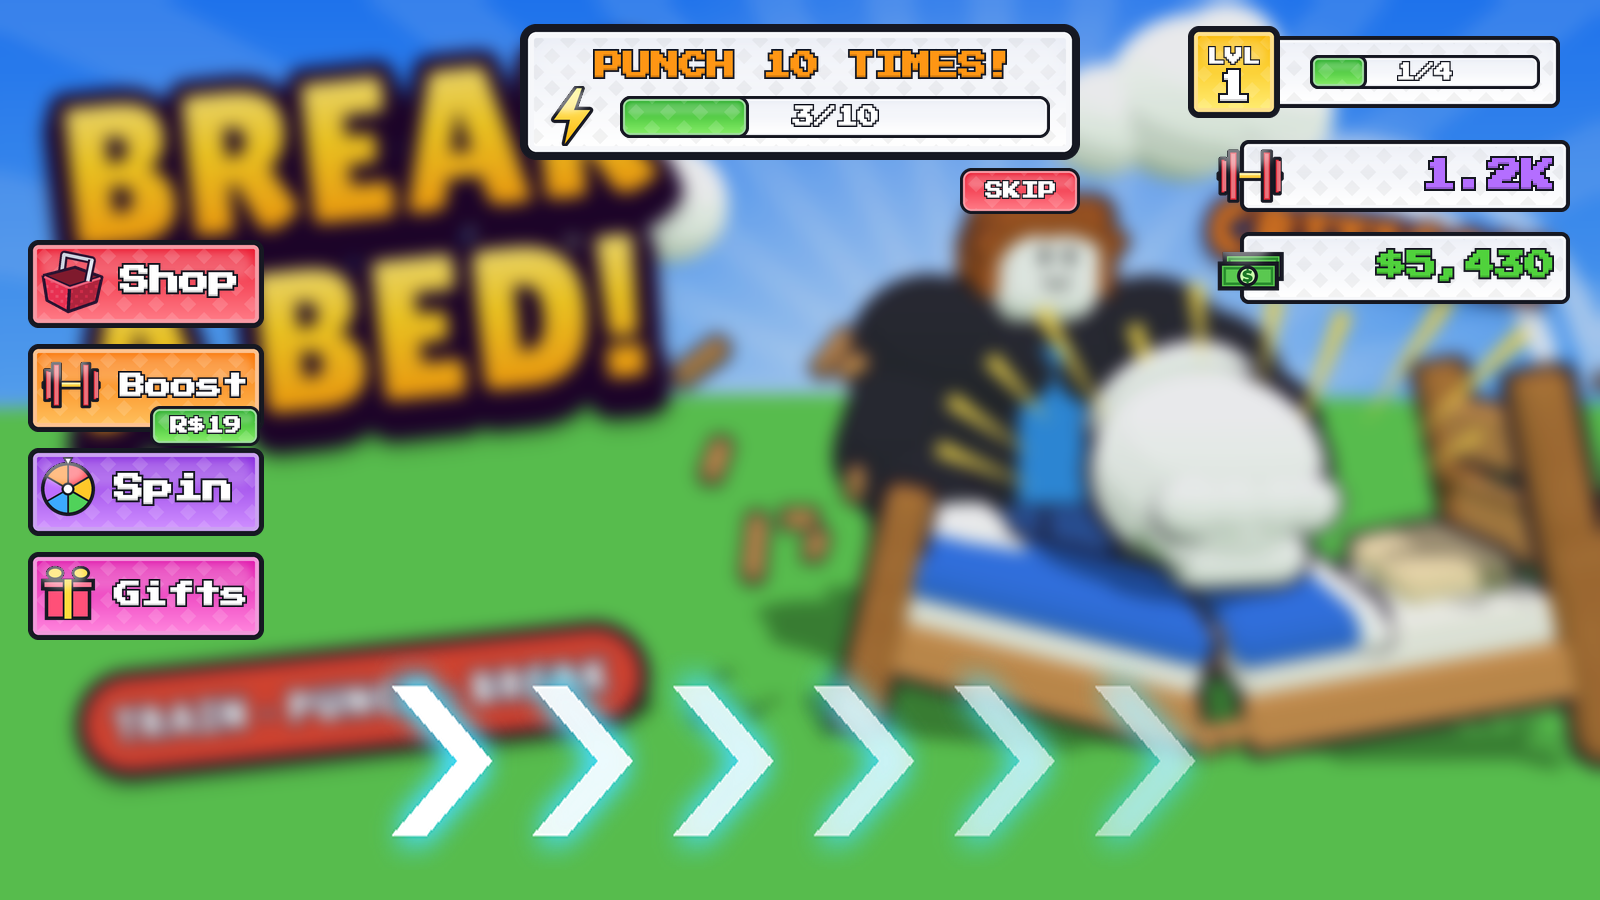
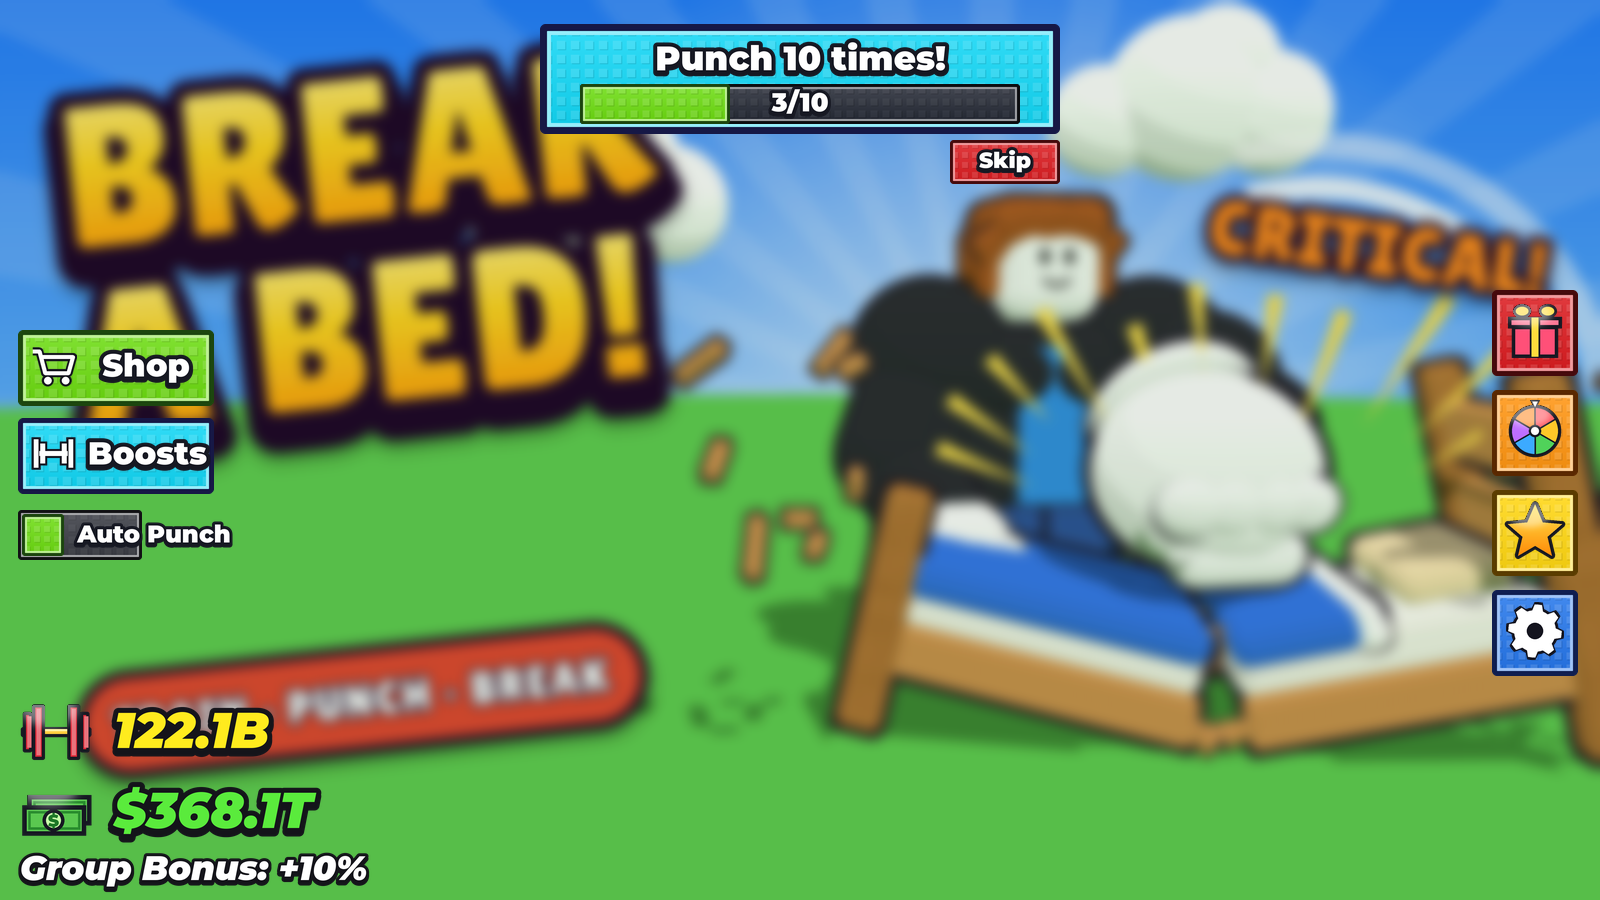
Break A Bed: final UI style (simulator look) and effects plan
Claude-Session: https://claude.ai/code/session_016uvrS3Ui1ijFbyufuEdzSK

diff --git a/Break A Bed/UI Kit/source/sim.py b/Break A Bed/UI Kit/source/sim.py
@@ -1,0 +1,264 @@
+"""Break A Bed UI in the owner's favourite 'simulator' style (Shop/Index buttons, dark studded shop)."""
+import os
+import sys, math, colorsys
+from PIL import Image, ImageDraw, ImageFont, ImageFilter, ImageChops
+import kit
+from kit import S, mix, mask_rr, vgrad, studs, label, FONT
+from preview import icon, price_btn
+from products import dumbbell
+
+COL = {'green': (110, 220, 20), 'cyan': (20, 215, 245), 'red': (220, 30, 35), 'purple': (190, 40, 235),
+       'yellow': (255, 215, 20), 'orange': (255, 150, 20), 'pink': (240, 60, 190), 'blue': (40, 120, 235)}
+EDGE = {'green': (28, 70, 14), 'cyan': (22, 24, 70), 'red': (70, 10, 12), 'purple': (55, 12, 75),
+        'yellow': (90, 60, 0), 'orange': (90, 40, 0), 'pink': (75, 10, 55), 'blue': (15, 30, 80)}
+
+def sbox(w, h, col, radius=0.07, cell=14, stud=(30, 26)):
+    base = COL[col] if isinstance(col, str) else col
+    edge = EDGE[col] if isinstance(col, str) else mix(base, (0, 0, 0), 0.7)
+    W, H = w * S, h * S
+    m = min(w, h)
+    rad = max(3, m * radius) * S
+    ow = min(7, max(3, round(m * 0.06))) * S
+    rim = min(4, max(2, round(m * 0.035))) * S
+    img = Image.new('RGBA', (W, H), (0, 0, 0, 0))
+    img.paste(edge + (255,), (0, 0, W, H), mask_rr((W, H), (0, 0, W - 1, H - 1), rad))
+    b1 = (ow, ow, W - 1 - ow, H - 1 - ow)
+    img.paste(mix(base, (255, 255, 255), 0.55) + (255,), (0, 0, W, H), mask_rr((W, H), b1, max(1, rad - ow)))
+    face = (b1[0] + rim, b1[1] + rim, b1[2] - rim, b1[3] - rim)
+    fm = mask_rr((W, H), face, max(1, rad - ow - rim))
+    img.paste(vgrad((W, H), mix(base, (255, 255, 255), 0.12), mix(base, (0, 0, 0), 0.06), face[1], face[3]), (0, 0), fm)
+    p = studs((W, H), cell * S, *stud); p.putalpha(ImageChops.multiply(p.getchannel('A'), fm)); img.alpha_composite(p)
+    return img.resize((w, h), Image.LANCZOS)
+
+def wtext(img, xy, s, size, fill=(255, 255, 255), anchor='lm', hl=None):
+    """hl: a word drawn in green (like the reference's highlighted 'x2')."""
+    if not hl or hl not in s:
+        label(img, xy, s, size, fill=fill, anchor=anchor); return
+    f = ImageFont.truetype(FONT, size)
+    parts = [p for p in s.replace(hl, '|' + hl + '|').split('|') if p]
+    total = sum(f.getlength(p) for p in parts) + 6 * (len(parts) - 1)
+    x = xy[0] - (total / 2 if anchor == 'mm' else 0)
+    for p in parts:
+        label(img, (x, xy[1]), p, size, fill=(90, 230, 40) if p == hl else fill, anchor='lm')
+        x += f.getlength(p) + 6
+
+# white glyph icons with a dark outline
+def glyph(kind, n, ol=(20, 20, 30)):
+    W = n * S; im = Image.new('RGBA', (W, W), (0, 0, 0, 0)); d = ImageDraw.Draw(im)
+    lw = int(W * 0.09)
+    def draw(col, extra):
+        w2 = lw + extra
+        if kind == 'cart':
+            d.line([(W*0.06, W*0.2), (W*0.2, W*0.2), (W*0.32, W*0.66), (W*0.82, W*0.66), (W*0.92, W*0.32), (W*0.26, W*0.32)], fill=col, width=w2, joint='curve')
+            for x in (0.38, 0.76):
+                r = W*0.08 + extra/2; d.ellipse((W*x-r, W*0.82-r, W*x+r, W*0.82+r), fill=col)
+        elif kind == 'gift':
+            e = extra/2
+            d.rectangle((W*0.16-e, W*0.46-e, W*0.84+e, W*0.9+e), fill=col)
+            d.rectangle((W*0.1-e, W*0.3-e, W*0.9+e, W*0.44+e), fill=col)
+            d.polygon([(W*0.5, W*0.3+e), (W*0.2-e, W*0.08-e), (W*0.22-e, W*0.3+e)], fill=col)
+            d.polygon([(W*0.5, W*0.3+e), (W*0.8+e, W*0.08-e), (W*0.78+e, W*0.3+e)], fill=col)
+        elif kind == 'dumbbell':
+            d.rectangle((W*0.2, W*0.45-extra/2, W*0.8, W*0.55+extra/2), fill=col)
+            for x0, hh in ((0.08, 0.6), (0.22, 0.42), (0.68, 0.42), (0.82, 0.6)):
+                d.rectangle((W*x0-extra/2, W*(0.5-hh/2)-extra/2, W*(x0+0.1)+extra/2, W*(0.5+hh/2)+extra/2), fill=col)
+        elif kind == 'wheel':
+            r = W*0.4 + extra/2; d.ellipse((W/2-r, W/2-r, W/2+r, W/2+r), outline=col, width=w2)
+            for i in range(4):
+                a = math.radians(i*45); d.line((W/2-W*0.38*math.cos(a), W/2-W*0.38*math.sin(a), W/2+W*0.38*math.cos(a), W/2+W*0.38*math.sin(a)), fill=col, width=int(w2*0.8))
+        elif kind == 'gear':
+            pts = []
+            for i in range(48):
+                a = i/48*2*math.pi; r = (0.46 if (i//3) % 2 == 0 else 0.36)*W + extra/2
+                pts.append((W/2 + r*math.cos(a), W/2 + r*math.sin(a)))
+            d.polygon(pts, fill=col)
+    draw(ol, int(lw * 1.1))
+    draw((255, 255, 255), 0)
+    if kind == 'gear':
+        r = W*0.14; d.ellipse((W/2-r, W/2-r, W/2+r, W/2+r), fill=ol)
+    if kind == 'gift':
+        d.rectangle((W*0.46, W*0.3, W*0.54, W*0.9), fill=ol)
+        d.line((W*0.16, W*0.45, W*0.84, W*0.45), fill=ol, width=int(W*0.03))
+    return im.resize((n, n), Image.LANCZOS)
+
+def hud_btn(col, kind, text, w=200, h=74):
+    b = sbox(w, h, col)
+    b.alpha_composite(glyph(kind, int(h * 0.62)), (int(h * 0.16), int(h * 0.17)))
+    fs = 32
+    while ImageFont.truetype(FONT, fs).getlength(text) > w - h * 0.9: fs -= 1
+    wtext(b, (h * 0.86 + (w - h * 0.86) / 2 - ImageFont.truetype(FONT, fs).getlength(text) / 2 - 6, h / 2 - 3), text, fs)
+    return b
+
+def toggle(on, w=124, h=50):
+    im = Image.new('RGBA', (w, h), (0, 0, 0, 0))
+    im.alpha_composite(sbox(w, h, (50, 80, 40) if on else (60, 62, 70), cell=12, stud=(10, 20)), (0, 0))
+    k = sbox(h - 8, h - 8, 'green', cell=10)
+    im.alpha_composite(k, (4 if not on else w - h + 4, 4))
+    return im
+
+def header(w, h, col='green', title='Shop'):
+    b = sbox(w, h, col, radius=0.05)
+    st = Image.new('RGBA', (w, h), (0, 0, 0, 0)); d = ImageDraw.Draw(st)
+    for x0, ww in ((w*0.45, h*0.45), (w*0.45 + h*0.62, h*0.22), (w*0.62, h*0.32)):
+        d.polygon([(x0, h), (x0 + ww, h), (x0 + ww + h*0.9, 0), (x0 + h*0.9, 0)], fill=(255, 255, 255, 60))
+    m = mask_rr((w, h), (5, 5, w - 6, h - 6), 6)
+    st.putalpha(ImageChops.multiply(st.getchannel('A'), m)); b.alpha_composite(st)
+    wtext(b, (26, h / 2 - 2), title, int(h * 0.5))
+    return b
+
+def dark_window(w, h):
+    W, H = w * S, h * S
+    img = Image.new('RGBA', (W, H), (0, 0, 0, 0))
+    img.paste((26, 27, 32, 255), (0, 0, W, H), mask_rr((W, H), (0, 0, W - 1, H - 1), 10 * S))
+    body = (6 * S, 6 * S, W - 6 * S - 1, H - 6 * S - 1)
+    fm = mask_rr((W, H), body, 7 * S)
+    img.paste((62, 64, 72, 255), (0, 0), fm)
+    p = studs((W, H), 22 * S, 14, 60); p.putalpha(ImageChops.multiply(p.getchannel('A'), fm)); img.alpha_composite(p)
+    return img.resize((w, h), Image.LANCZOS)
+
+def rainbow_card(w, h):
+    strip = Image.new('RGB', (w, 1))
+    for x in range(w):
+        r, g, b = colorsys.hsv_to_rgb((0.12 - x / w * 1.0) % 1, 0.55, 1); strip.putpixel((x, 0), (int(r*255), int(g*255), int(b*255)))
+    return strip.resize((w, h))
+
+def card(w, h, bg, ic, title, l1, hl, l2, price):
+    W, H = w, h
+    c = sbox(w, h, (200, 200, 210), radius=0.03, cell=16, stud=(30, 20))
+    face = Image.new('RGBA', (w, h), (0, 0, 0, 0))
+    fill = rainbow_card(w, h) if bg == 'rainbow' else vgrad((w, h), (255, 245, 120), (255, 205, 30), 0, h)
+    m = mask_rr((w, h), (6, 6, w - 7, h - 7), 3)
+    face.paste(fill, (0, 0), m)
+    p = studs((w, h), 16, 40, 22); p.putalpha(ImageChops.multiply(p.getchannel('A'), m)); face.alpha_composite(p)
+    c.alpha_composite(face)
+    c.alpha_composite(ic, (18, 20))
+    wtext(c, (w * 0.62, 36), title, 30, anchor='mm')
+    wtext(c, (w * 0.66, 92), l1, 30, anchor='mm')
+    wtext(c, (w * 0.66, 128), l2, 30, anchor='mm', hl='x2')
+    gb = sbox(76, 58, 'purple', cell=10); gb.alpha_composite(glyph('gift', 38), (19, 8)); c.alpha_composite(gb, (22, h - 74))
+    pb = sbox(w - 130, 58, 'green', cell=10)
+    from preview import icon as ic2
+    pb.alpha_composite(ic2('robux', 34), (int(pb.width/2 - 60), 10))
+    wtext(pb, (pb.width / 2 - 18, 26), price, 32)
+    c.alpha_composite(pb, (108, h - 74))
+    return c
+
+def main(bgpath, out):
+    Wd, Hd = 1600, 900
+    bg = Image.open(bgpath).convert('RGBA').resize((Wd, Hd)).filter(ImageFilter.GaussianBlur(10))
+    img = Image.blend(bg, Image.new('RGBA', (Wd, Hd), (40, 80, 30, 255)), 0.15)
+    # HUD left
+    for i, (col, k, t) in enumerate([('green', 'cart', 'Shop'), ('orange', 'dumbbell', 'Boost'), ('purple', 'wheel', 'Spin'), ('pink', 'gift', 'Gifts'), ('cyan', 'gear', 'Settings')]):
+        img.alpha_composite(hud_btn(col, k, t), (24, 230 + i * 88))
+    # shop window
+    x0, y0, ww, wh = 300, 70, 1020, 760
+    img.alpha_composite(dark_window(ww, wh), (x0, y0))
+    img.alpha_composite(header(ww - 98, 96), (x0 + 6, y0 + 6))
+    xb = kit.x_mark(sbox(86, 86, 'red', radius=0.06))
+    img.alpha_composite(xb, (x0 + ww - 94, y0 + 11))
+    wtext(img, (x0 + ww / 2, y0 + 150), '-- PASSES --', 40, fill=(255, 226, 40), anchor='mm')
+    cw = (ww - 3 * 24) // 2
+    img.alpha_composite(card(cw, 250, 'rainbow', dumbbell(150), 'x2 Strength', 'Punch', '', 'x2 harder!', '19'), (x0 + 24, y0 + 190))
+    img.alpha_composite(card(cw, 250, 'yellow', icon('cash', 150), 'x2 Cash', 'Get', '', 'x2 Cash!', '99'), (x0 + 48 + cw, y0 + 190))
+    wtext(img, (x0 + ww / 2, y0 + 495), '-- BOOSTS --', 40, fill=(40, 220, 255), anchor='mm')
+    sp = sbox(ww - 48, 120, 'cyan', radius=0.03, cell=16)
+    wtext(sp, (sp.width / 2 - 10, 58), 'x3 STRENGTH for 10 min', 44, anchor='mm', hl='x3')
+    img.alpha_composite(sp, (x0 + 24, y0 + 540))
+    # side category icons
+    for i, (k, t) in enumerate([('star', 'Passes'), ('bolt', 'Boosts'), ('cash', 'Cash'), ('gift', 'Free')]):
+        icn = icon(k, 96); img.alpha_composite(icn, (x0 + ww + 30, y0 + 120 + i * 140))
+        wtext(img, (x0 + ww + 78, y0 + 222 + i * 140), t, 26, anchor='mm')
+    img.convert('RGB').save(out, quality=92)
+
+if __name__ == '__main__':
+    main(sys.argv[1], sys.argv[2])
+
+ITAL = os.path.join(os.path.dirname(__file__), '..', 'fonts', 'Montserrat-BlackItalic.ttf') if False else None
+
+def itext(img, xy, s, size, fill):
+    import os as _os
+    f = ImageFont.truetype(_os.path.join(_os.path.dirname(__file__), '..', 'fonts', 'Montserrat-BlackItalic.ttf'), size * S)
+    sw = max(2, round(size * 0.1)) * S
+    tmp = Image.new('RGBA', (int(f.getlength(s)) + 8 * sw, int(size * 1.6 * S)), (0, 0, 0, 0)); d = ImageDraw.Draw(tmp)
+    d.text((2 * sw, tmp.height / 2 + size * 0.07 * S), s, font=f, anchor='lm', fill=(20, 20, 26), stroke_width=sw, stroke_fill=(20, 20, 26))
+    d.text((2 * sw, tmp.height / 2), s, font=f, anchor='lm', fill=fill, stroke_width=sw, stroke_fill=(20, 20, 26))
+    t = tmp.resize((tmp.width // S, tmp.height // S), Image.LANCZOS)
+    img.alpha_composite(t, (int(xy[0]), int(xy[1] - t.height / 2)))
+
+def square_btn(col, ic, n=86):
+    b = sbox(n, n, col, radius=0.06, cell=12)
+    b.alpha_composite(ic, ((n - ic.width) // 2, (n - ic.height) // 2 - 2))
+    return b
+
+def hud_main(bgpath, out):
+    from hud import gloss
+    Wd, Hd = 1600, 900
+    bg = Image.open(bgpath).convert('RGBA').resize((Wd, Hd)).filter(ImageFilter.GaussianBlur(6))
+    img = Image.blend(bg, Image.new('RGBA', (Wd, Hd), (40, 80, 30, 255)), 0.12)
+    # left wide buttons
+    img.alpha_composite(hud_btn('green', 'cart', 'Shop', w=196, h=76), (18, 330))
+    img.alpha_composite(hud_btn('cyan', 'dumbbell', 'Boosts', w=196, h=76), (18, 418))
+    tg = toggle(False); img.alpha_composite(tg, (18, 510)); label(img, (154, 534), 'Auto Punch', 24)
+    # right square buttons
+    for i, (col, ic) in enumerate([('red', gloss(icon('gift', 64))), ('orange', gloss(icon('wheel', 62))), ('yellow', gloss(icon('star', 62))), ('blue', glyph('gear', 58))]):
+        img.alpha_composite(square_btn(col, ic), (Wd - 108, 290 + i * 100))
+    # floating stats bottom-left
+    img.alpha_composite(gloss(dumbbell(84)), (14, 690))
+    itext(img, (104, 730), '122.1B', 50, (255, 235, 30))
+    img.alpha_composite(gloss(icon('cash', 84)), (14, 770))
+    itext(img, (104, 810), '$368.1T', 50, (90, 235, 60))
+    itext(img, (14, 868), 'Group Bonus: +10%', 34, (255, 255, 255))
+    # tutorial card top center (cyan, like the Index bar)
+    tc = sbox(520, 110, 'cyan', radius=0.05)
+    label(tc, (260, 34), 'Punch 10 times!', 34, anchor='mm')
+    track = sbox(440, 40, (40, 44, 56), cell=12, stud=(10, 30))
+    fill = sbox(150, 40, 'green', cell=12)
+    track.alpha_composite(fill, (0, 0))
+    label(track, (220, 18), '3/10', 26, anchor='mm')
+    tc.alpha_composite(track, (40, 60))
+    img.alpha_composite(tc, (Wd // 2 - 260, 24))
+    sk = sbox(110, 44, 'red', radius=0.08, cell=10); label(sk, (55, 20), 'Skip', 22, anchor='mm')
+    img.alpha_composite(sk, (Wd // 2 + 260 - 110, 140))
+    img.convert('RGB').save(out, quality=92)
+
+def shop2(bgpath, out):
+    from hud import gloss
+    Wd, Hd = 1600, 900
+    bg = Image.open(bgpath).convert('RGBA').resize((Wd, Hd)).filter(ImageFilter.GaussianBlur(10))
+    img = Image.blend(bg, Image.new('RGBA', (Wd, Hd), (40, 80, 30, 255)), 0.15)
+    x0, y0, ww, wh = 230, 60, 1060, 790
+    img.alpha_composite(dark_window(ww, wh), (x0, y0))
+    img.alpha_composite(header(ww - 98, 96), (x0 + 6, y0 + 6))
+    img.alpha_composite(kit.x_mark(sbox(86, 86, 'red', radius=0.06)), (x0 + ww - 94, y0 + 11))
+    wtext(img, (x0 + ww / 2, y0 + 140), '-- STRENGTH --', 40, fill=(40, 220, 255), anchor='mm')
+    up = sbox(ww - 48, 210, 'cyan', radius=0.03, cell=16)
+    rays_ = kit.rays(700, 14, 90); up.alpha_composite(rays_.crop((0, 245, 700, 455)).resize((up.width, 210)))
+    wtext(up, (up.width / 2, 40), 'DOUBLE Your STRENGTH', 40, anchor='mm', hl='DOUBLE')
+    up.alpha_composite(gloss(dumbbell(150)), (30, 45))
+    itext(up, (290, 128), 'x5', 92, (255, 255, 255))
+    up.alpha_composite(sbox(40, 40, (255, 255, 255), cell=40, stud=(0, 0)).resize((1, 1)), (0, 0))
+    ImageDraw.Draw(up).polygon([(475, 100), (475, 156), (520, 128)], fill=(255, 255, 255), outline=(20, 20, 26), width=5)
+    itext(up, (540, 128), 'x7', 92, (255, 215, 30))
+    pb = sbox(210, 80, 'green', cell=12); pb.alpha_composite(icon('robux', 44), (30, 16)); label(pb, (96, 37), '149', 40)
+    up.alpha_composite(pb, (up.width - 230, 90))
+    img.alpha_composite(up, (x0 + 24, y0 + 180))
+    wtext(img, (x0 + ww / 2, y0 + 430), '-- CASH --', 40, fill=(90, 230, 60), anchor='mm')
+    cw = (ww - 4 * 24) // 3
+    for i, (amt, price, n) in enumerate((('+$15K', '9', 1), ('+$60K', '15', 2), ('+$250K', '30', 3))):
+        c = sbox(cw, 290, 'green', radius=0.03, cell=16)
+        c.alpha_composite(kit.soft_glow(260, 170), (cw // 2 - 130, 0))
+        for k in range(n):
+            c.alpha_composite(gloss(icon('cash', 150)), (int(cw // 2 - 75 + (k - (n - 1) / 2) * 34), 30 - k * 14))
+        wtext(c, (cw / 2, 190), amt + ' CASH', 34, anchor='mm', hl=amt)
+        gb = sbox(70, 62, 'purple', cell=10); gb.alpha_composite(glyph('gift', 40), (15, 9)); c.alpha_composite(gb, (16, 214))
+        p2 = sbox(cw - 110, 62, 'green', cell=10)
+        tw = ImageFont.truetype(FONT, 32).getlength(price); x1 = p2.width / 2 - (52 + tw) / 2
+        p2.alpha_composite(icon('robux', 34), (int(x1), 12)); label(p2, (x1 + 52, 28), price, 32)
+        c.alpha_composite(p2, (94, 214))
+        img.alpha_composite(c, (x0 + 24 + i * (cw + 24), y0 + 475))
+    for i, (k, t) in enumerate([('star', 'Passes'), ('bolt', 'Strength'), ('cash', 'Cash'), ('gift', 'Free')]):
+        img.alpha_composite(gloss(icon(k, 96)), (x0 + ww + 30, y0 + 120 + i * 140))
+        label(img, (x0 + ww + 78, y0 + 222 + i * 140), t, 26, anchor='mm')
+    # server announcement banner (effect)
+    wtext(img, (Wd / 2, 30), 'Rong broke the INFINITY BED!', 36, anchor='mm', hl='INFINITY BED!')
+    img.convert('RGB').save(out, quality=92)

diff --git a/Break A Bed/UI Kit/UI Kit.md b/Break A Bed/UI Kit/UI Kit.md
@@ -6,8 +6,6 @@ Back to [[Break A Bed/Project Overview|Project Overview]].
 
 A new UI style made 2026-10-12 to replace the look that seemed AI-made. It's based on the owner's reference pictures, and the owner asked for it **sharp**: nearly square corners, a light bevel inside a thick dark outline, a lighter top half, a small square "stud" pattern, a darker 3D bottom edge, and heavy white Montserrat text with a thick dark outline. Big menus have a dark slate window with a cyan title bar, a yellow featured card and cyan item cards.
 
-![[preview-shop.png]]
-
 ![[preview-gifts.png]]
 
 ![[preview-settings.png]]
@@ -15,6 +13,43 @@ A new UI style made 2026-10-12 to replace the look that seemed AI-made. It's bas
 ![[preview-hud.png]]
 
 The preview is a mockup. The prices and the Rebirth button are only examples.
+
+## ⭐ FINAL STYLE (2026-10-12): the owner's favourite simulator look. Use this over everything below
+The owner sent screenshots of a popular simulator (Shop/Index buttons, a dark studded shop with a green shiny title bar, floating stats) and said **"these types of designs are the best"**. Everything on screen follows this. Older sections below are only kept for the shared parts (rainbow-free headers now, animations, sounds).
+
+![[preview-hud.png]]
+
+![[preview-shop.png]]
+
+![[preview-shop-passes.png]]
+
+### Buttons and boxes
+- **Solid bright color** with a gentle top-to-bottom shade, a faint **square stud pattern**, a **light inner rim**, and an outline in a **dark shade of the same color** (dark green on green, dark navy on cyan; not black). Corners are small (about 6–7%).
+- Images: `sim-btn-<color>.png` (wide), `sim-square-<color>.png` (square), colors green, cyan, red, purple, yellow, orange, pink, blue.
+- **Icons on buttons are white glyphs with a dark outline** (`glyph-cart.png`, `glyph-dumbbell.png`, `glyph-wheel.png`, `glyph-gift.png`, `glyph-gear.png`). Square buttons can use the colored 3D icons instead.
+- **Text:** white **Montserrat Heavy**, thick dark stroke `#141420` plus a dark shadow. Important words are **green** `#5AE628` (for example "**x2** harder!", "**DOUBLE** Your STRENGTH", "**+$15K** CASH").
+
+### Main screen
+- **Left:** wide buttons **Shop** (green, cart) and **Boosts** (cyan, dumbbell), then an **on/off switch** with a white label (Auto Punch). Buttons are about 196 × 76.
+- **Right:** a column of **square buttons**: Gifts (red), Spin (orange), Rewards (yellow, star), Settings (blue, gear).
+- **Stats float in the bottom-left with no panel:** a big 3D icon and a huge **italic** number (Montserrat Heavy Italic, thick dark stroke): Strength **yellow** `#FFEB1E`, Cash **green** `#5AEB3C`. Under them, white italic "Group Bonus: +10%".
+- **Tutorial:** a cyan box at the top center with white text and a dark bar track with a green studded fill ("3/10"). Skip is a small red button.
+
+### Big menus (Shop, Free Gifts, Settings, Index…)
+- **Window:** solid dark grey `#3E4048` with a dark stud pattern and a near-black outline (`sim-window.png`). It's **not** see-through.
+- **Title bar:** bright green (`sim-header-green.png`) or cyan with **diagonal white shine stripes**. The title is white on the left, and a red square X sits on the right.
+- **One scrolling page** with section titles like **-- STRENGTH --** (cyan), **-- CASH --** (green), **-- PASSES --** (yellow), in big text with the dark stroke.
+- **Category buttons outside the window on the right:** a big 3D icon with a white label (Passes, Strength, Cash, Free). Clicking one scrolls to its section.
+- **Item cards:** colored by section (Cash green, Strength cyan, passes rainbow or yellow), a white glow behind a big 3D icon that may poke out of the top, the amount in white with the number in green, then a small **purple gift button** (buy it for a friend) plus a wide **green price button** with the Robux icon.
+- **Strength tier card:** "**DOUBLE** Your STRENGTH", a big **x5 ▶ x7** (white then yellow, italic) with soft light rays behind, and the price on the right.
+
+### Effects (the owner: "the effects in this game are crazy")
+- **Server announcements:** a big line at the top center for everyone, white with a dark stroke and the important part colored: "**Rong** broke the **INFINITY BED!**", "**Rong** bought **SERVER x2 STRENGTH!**". It slides in, stays 4 s and fades.
+- **Big center text** for events ("SERVER x2 STRENGTH!", "WEEKEND EVENT!", "NEW BED UNLOCKED!") with a glow and a pop-in.
+- **Bed breaks look huge:** a bright flash, a burst of glowing particles in the bed's tier color, light beams, flying cash, screen shake. Later beds get bigger, neon effects.
+- **Glowing auras and trails:** the player gets an aura/trail that gets fancier with Level or Rebirths. VIP gets a gold one.
+- **Floating numbers:** big italic damage numbers and "+$" pop out of every hit.
+- **Glowing neon details** on the later zones and beds.
 
 ## Images (`UI Kit/images/`)
 None of the images have text in them. Text stays as Roblox TextLabels so numbers can change.
@@ -40,6 +75,7 @@ None of the images have text in them. Text stays as Roblox TextLabels so numbers
 | `pixel-btn-<color>.png` | 472 × 176 | Main-screen side buttons (rounded, short) |
 | `pixel-panel-light.png`, `pixel-badge-yellow.png`, `pixel-bar-track.png`, `pixel-bar-green.png` | various | Light stat panels, LVL badge, progress bars |
 | `fx-arrow-chevron.png` | 256 × 256 | Arrow texture for the ground path `Beam` |
+| `sim-btn-<color>.png`, `sim-square-<color>.png`, `sim-header-green.png`, `sim-header-cyan.png`, `sim-window.png`, `glyph-<name>.png` | various | **FINAL STYLE** images (see the section above) |
 
 Colors: pink, purple, cyan, blue, orange, green, red, yellow, slate.
 

diff --git a/Break A Bed/Decisions.md b/Break A Bed/Decisions.md
@@ -80,3 +80,4 @@ Back to [[Break A Bed/Project Overview|Project Overview]].
 - 2026-10-12: main screen + tutorial go **light and icon-first** (square shiny icon buttons, light stat panels, colored numbers). Ground guide = moving arrow Beam. Big menus stay dark with the rainbow title. #break-a-bed
 - 2026-10-12: square icon HUD rejected. Main screen keeps the old wide-button layout in the owner's "Shop" reference design (gradient, diamond pattern, light inner border, 3D icon, Press Start 2P pixel text). Stats + tutorial light. #break-a-bed
 - 2026-10-12: owner preferred the rounded gradient version over the square "identical" copy. Side buttons made **short** (about 236 × 88). #break-a-bed
+- 2026-10-12: **FINAL UI direction**: the owner's favourite simulator look (solid studded buttons with same-color dark outlines, white glyph icons, Montserrat Heavy, dark studded shop with a shiny green title bar, scrolling sections, floating italic stats, square right-side buttons) plus big effects (server announcements, flashy bed breaks, auras). Earlier styles replaced. #break-a-bed
